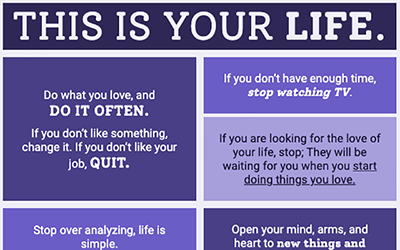
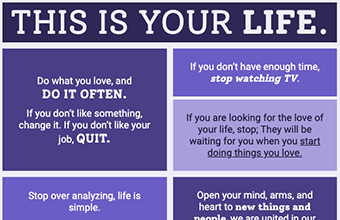
modified dimensions of portfolio images

diff --git a/index.html b/index.html
@@ -63,7 +63,7 @@
                     <!-- EMAIL ICON? -->
                     <a href="mailto:elise.m.shattuck@gmail.com">elise.m.shattuck [@] gmail.com</a>
                         <ul>
-                            <li><a href="http://linkedin.com/in/elise-shattuck"><img src="img/linkedin.png" alt="LinkedIn"></a></li>
+                            <li><a href="http://linkedins.com/in/elise-shattuck"><img src="img/linkedin.png" alt="LinkedIn"></a></li>
                             <li><a href="http://github.com/elise-shattuck"><img src="img/github.png" alt="GitHub"></a></li>
                         </ul>
                 </div>
